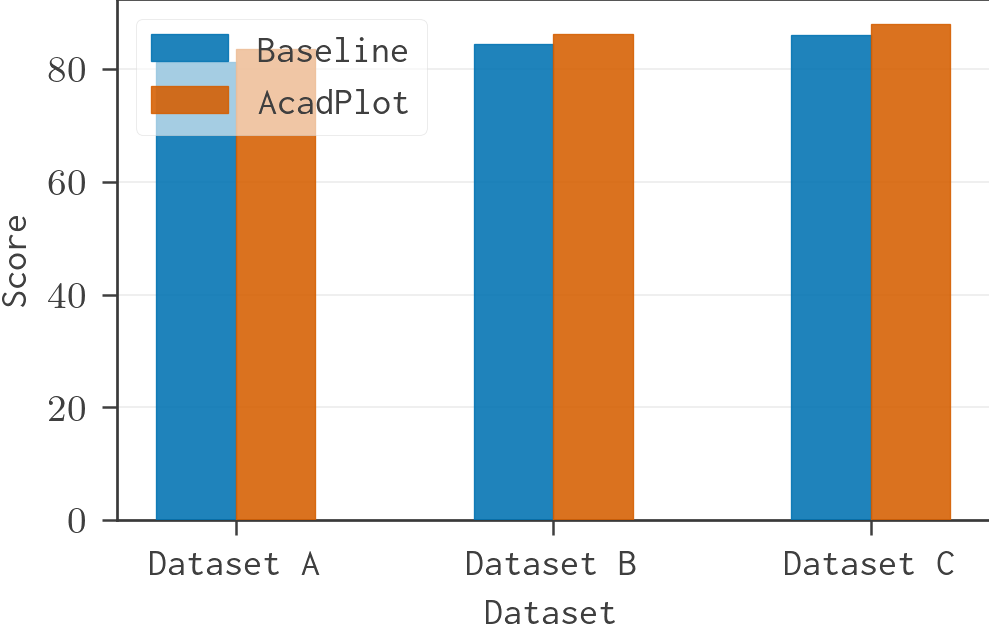
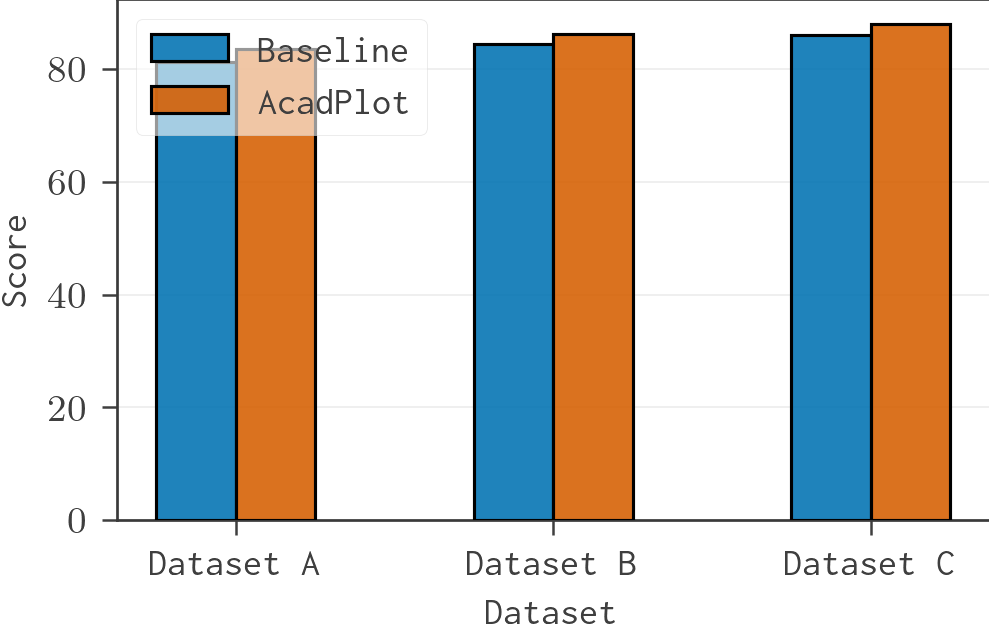
feat(bar): update bar to have outline as default

Changed region(s): [[0.1517, 0.0302, 0.3337, 0.2114], [0.7887, 0.0302, 0.9707, 0.0604], [0.4853, 0.0302, 0.637, 0.0906]]

diff --git a/src/acadplot/styles.py b/src/acadplot/styles.py
@@ -105,7 +105,7 @@ LAYOUTS = {
         grid_alpha=0.28,
         minor_grid_alpha=0.14,
         bar_alpha=0.86,
-        bar_edge_width=0.25,
+        bar_edge_width=0.65,
         legend_frameon=True,
         legend_framealpha=0.6,
         legend_frame_linewidth=0.2,
@@ -126,7 +126,7 @@ LAYOUTS = {
         grid_alpha=0.24,
         minor_grid_alpha=0.11,
         bar_alpha=0.88,
-        bar_edge_width=0.32,
+        bar_edge_width=0.75,
         legend_frameon=True,
         legend_framealpha=0.6,
         legend_frame_linewidth=0.2,
@@ -147,7 +147,7 @@ LAYOUTS = {
         grid_alpha=0.2,
         minor_grid_alpha=0.1,
         bar_alpha=0.86,
-        bar_edge_width=0.2,
+        bar_edge_width=0.5,
         legend_frameon=True,
         legend_framealpha=0.6,
         legend_frame_linewidth=0.16,
@@ -172,7 +172,7 @@ LAYOUTS = {
         grid_alpha=0.26,
         minor_grid_alpha=0.12,
         bar_alpha=0.88,
-        bar_edge_width=0.3,
+        bar_edge_width=0.7,
         legend_frameon=True,
         legend_framealpha=0.6,
         legend_frame_linewidth=0.2,
@@ -193,7 +193,7 @@ LAYOUTS = {
         grid_alpha=0.24,
         minor_grid_alpha=0.12,
         bar_alpha=0.9,
-        bar_edge_width=0.45,
+        bar_edge_width=0.9,
         legend_frameon=True,
         legend_framealpha=0.65,
         legend_frame_linewidth=0.25,
@@ -455,19 +455,27 @@ def _build_style(
     ) * scale
     if resolved_font_size <= 0:
         raise ValueError("font_size must be a positive number.")
-    default_label_size = _scaled_size(layout_profile.label_size, resolved_font_size, scale)
-    default_tick_size = _scaled_size(layout_profile.tick_size, resolved_font_size, scale)
+    default_label_size = _scaled_size(
+        layout_profile.label_size, resolved_font_size, scale
+    )
+    default_tick_size = _scaled_size(
+        layout_profile.tick_size, resolved_font_size, scale
+    )
     default_legend_size = _scaled_size(
         layout_profile.legend_size, resolved_font_size, scale
     )
-    default_title_size = _scaled_size(layout_profile.title_size, resolved_font_size, scale)
+    default_title_size = _scaled_size(
+        layout_profile.title_size, resolved_font_size, scale
+    )
     resolved_label_size = _resolve_size("label_size", label_size, default_label_size)
     resolved_tick_size = _resolve_size("tick_size", tick_size, default_tick_size)
     resolved_legend_size = _resolve_size(
         "legend_size", legend_size, default_legend_size
     )
     resolved_title_size = _resolve_size("title_size", title_size, default_title_size)
-    resolved_text_color = _resolve_color("text_color", text_color, theme_profile.text_color)
+    resolved_text_color = _resolve_color(
+        "text_color", text_color, theme_profile.text_color
+    )
     if text_color is None:
         resolved_axis_label_color = theme_profile.axis_label_color
         resolved_tick_color = theme_profile.tick_color
@@ -511,6 +519,7 @@ def _build_style(
         "minor_grid_alpha": layout_profile.minor_grid_alpha,
         "bar_alpha": layout_profile.bar_alpha,
         "bar_edge_width": layout_profile.bar_edge_width * scale,
+        "bar_edge_color": "#000000",
         "legend_frameon": layout_profile.legend_frameon,
         "legend_framealpha": layout_profile.legend_framealpha,
         "legend_frame_linewidth": layout_profile.legend_frame_linewidth * scale,

diff --git a/tests/test_styles.py b/tests/test_styles.py
@@ -5,6 +5,7 @@ import matplotlib
 
 matplotlib.use("Agg")
 import matplotlib.pyplot as plt
+from matplotlib.colors import to_rgba
 
 from acadplot import (
     available_fonts,
@@ -296,6 +297,13 @@ def test_explicit_bar_overrides_and_default_grid():
     assert ax.xaxis.label.get_size() == 9.0
     assert ax.xaxis.label.get_color() == get_current_style()["axis_label_color"]
     assert ax.spines["bottom"].get_edgecolor()
+    expected_edge_rgb = to_rgba(get_current_style()["bar_edge_color"])[:3]
+    assert all(patch.get_edgecolor()[:3] == expected_edge_rgb for patch in ax.patches)
+    assert all(patch.get_edgecolor()[3] == 1.0 for patch in ax.patches)
+    assert all(
+        patch.get_facecolor()[3] == get_current_style()["bar_alpha"]
+        for patch in ax.patches
+    )
     legend = ax.get_legend()
     assert legend is not None
     assert legend.get_frame_on()
@@ -325,7 +333,10 @@ def test_bar_patterns_apply_to_bar_variants():
         patterns=["diagonal", "cross"],
         fname=None,
     )
-    assert [patch.get_hatch() for patch in ax.patches] == ["/", "x"]
+    assert [patch.get_hatch() for patch in ax.patches] == ["///", "xxx"]
+    expected_edge_rgb = to_rgba(get_current_style()["bar_edge_color"])[:3]
+    assert all(patch.get_edgecolor()[:3] == expected_edge_rgb for patch in ax.patches)
+    assert all(patch.get_edgecolor()[3] == 1.0 for patch in ax.patches)
     plt.close(fig)
 
     fig, ax = plot_grouped_bar(
@@ -336,7 +347,14 @@ def test_bar_patterns_apply_to_bar_variants():
         "upper left",
         fname=None,
     )
-    assert [patch.get_hatch() for patch in ax.patches] == ["/", "/", "x", "x"]
+    assert [patch.get_hatch() for patch in ax.patches] == [
+        "///",
+        "///",
+        "xxx",
+        "xxx",
+    ]
+    assert all(patch.get_edgecolor()[:3] == expected_edge_rgb for patch in ax.patches)
+    assert all(patch.get_edgecolor()[3] == 1.0 for patch in ax.patches)
     plt.close(fig)
 
     fig, ax = plot_stacked_bar(
@@ -345,7 +363,14 @@ def test_bar_patterns_apply_to_bar_variants():
         "upper left",
         fname=None,
     )
-    assert [patch.get_hatch() for patch in ax.patches] == ["/", "/", "x", "x"]
+    assert [patch.get_hatch() for patch in ax.patches] == [
+        "///",
+        "///",
+        "xxx",
+        "xxx",
+    ]
+    assert all(patch.get_edgecolor()[:3] == expected_edge_rgb for patch in ax.patches)
+    assert all(patch.get_edgecolor()[3] == 1.0 for patch in ax.patches)
     plt.close(fig)
 
 

diff --git a/src/acadplot/utils.py b/src/acadplot/utils.py
@@ -67,9 +67,7 @@ def _write_save_metadata(
     from .styles import get_current_style
 
     metadata_path = (
-        targets[0].with_suffix(".acadplot.json")
-        if metadata is True
-        else Path(metadata)
+        targets[0].with_suffix(".acadplot.json") if metadata is True else Path(metadata)
     )
     metadata_path.parent.mkdir(parents=True, exist_ok=True)
     payload = {
@@ -78,7 +76,9 @@ def _write_save_metadata(
         "matplotlib_version": matplotlib_version,
         "style": get_current_style(),
     }
-    metadata_path.write_text(json.dumps(payload, indent=2, default=str), encoding="utf-8")
+    metadata_path.write_text(
+        json.dumps(payload, indent=2, default=str), encoding="utf-8"
+    )
     return metadata_path
 
 
@@ -178,7 +178,9 @@ def _legend_location(location: str, legend_outside: bool | str) -> dict[str, obj
         "bottom": {"loc": "upper center", "bbox_to_anchor": (0.5, -0.18)},
     }
     if side not in outside_locations:
-        raise ValueError("legend_outside must be True, False, or one of: right, left, top, bottom.")
+        raise ValueError(
+            "legend_outside must be True, False, or one of: right, left, top, bottom."
+        )
     return outside_locations[side]
 
 
@@ -337,7 +339,9 @@ def theme_preview(
         )
         for col_idx, color in enumerate(palette):
             ax.add_patch(
-                Rectangle((col_idx, row_idx), 0.9, 0.72, facecolor=color, edgecolor="none")
+                Rectangle(
+                    (col_idx, row_idx), 0.9, 0.72, facecolor=color, edgecolor="none"
+                )
             )
 
     ax.set_xlim(-1.2, max(len(THEMES[name].palette) for name in selected_themes))
@@ -395,16 +399,16 @@ markers = {
 
 patterns = {
     "none": "",
-    "diagonal": "/",
-    "back_diagonal": "\\",
-    "cross": "x",
-    "plus": "+",
-    "dots": ".",
-    "circles": "o",
-    "stars": "*",
-    "horizontal": "-",
-    "vertical": "|",
-    "grid": "++",
+    "diagonal": "///",
+    "back_diagonal": "\\\\\\",
+    "cross": "xxx",
+    "plus": "+++",
+    "dots": "...",
+    "circles": "ooo",
+    "stars": "***",
+    "horizontal": "---",
+    "vertical": "|||",
+    "grid": "++++",
 }
 
 

diff --git a/src/acadplot/bar.py b/src/acadplot/bar.py
@@ -1,6 +1,7 @@
 from typing import List, Optional, Sequence, Tuple
 
 import matplotlib.pyplot as plt
+from matplotlib.colors import to_rgba
 
 from .draw import draw_bar, resolve_color_key, resolve_pattern_key
 from .styles import (
@@ -9,7 +10,7 @@ from .styles import (
     configure_plot_style,
     get_current_style,
 )
-from .utils import save, styled_legend
+from .utils import new_alpha, save, styled_legend
 
 
 def _prepare_axes(ax, fig_size):
@@ -344,29 +345,29 @@ def plot_stacked_bar(
         values, color_key, pattern_key, stack_label = _parse_stack(stack)
         color = resolve_color_key(color_key)
         pattern = _resolve_pattern(patterns, stack_idx, stack_label, pattern_key)
-        if color is None:
-            color_kwargs = {}
-        elif pattern:
-            color_kwargs = {"color": color, "edgecolor": str(style["axis_color"])}
-        else:
-            color_kwargs = {"color": color, "edgecolor": color}
+        bar_alpha = float(style["bar_alpha"])
+        bar_edge_color = str(style["bar_edge_color"])
+        color_kwargs = {"edgecolor": bar_edge_color}
+        if color is not None:
+            color_kwargs["facecolor"] = new_alpha(to_rgba(color), bar_alpha)
         container = ax.bar(
             x_positions,
             values,
             bar_width,
             bottom=bottoms,
             linewidth=float(style["bar_edge_width"]),
-            alpha=float(style["bar_alpha"]),
             hatch=pattern,
             label=stack_label,
             zorder=3,
             **color_kwargs,
         )
-        if color is None:
-            for patch in container.patches:
-                patch.set_edgecolor(
-                    str(style["axis_color"]) if pattern else patch.get_facecolor()
+        for patch in container.patches:
+            if color is None:
+                patch.set_facecolor(
+                    new_alpha(to_rgba(patch.get_facecolor()), bar_alpha)
                 )
+            patch.set_edgecolor(bar_edge_color)
+            patch.set_alpha(None)
         bottoms = [bottom + value for bottom, value in zip(bottoms, values)]
 
     ax.set_xticks(list(x_positions))

diff --git a/src/acadplot/draw.py b/src/acadplot/draw.py
@@ -103,24 +103,24 @@ def draw_bar(
     color = resolve_color_key(color_key)
     pattern = resolve_pattern_key(pattern_key)
     style = get_current_style()
-    if color is None:
-        color_kwargs = {}
-    elif pattern:
-        color_kwargs = {"color": color, "edgecolor": str(style["axis_color"])}
-    else:
-        color_kwargs = {"color": color, "edgecolor": color}
+    bar_alpha = float(style["bar_alpha"])
+    bar_edge_color = str(style["bar_edge_color"])
+    color_kwargs = {"edgecolor": str(style["bar_edge_color"])}
+    if color is not None:
+        color_kwargs["facecolor"] = new_alpha(to_rgba(color), bar_alpha)
 
     container = ax.bar(
         x,
         y,
         width,
         linewidth=float(style["bar_edge_width"]),
-        alpha=float(style["bar_alpha"]),
         hatch=pattern,
         label=label,
         zorder=3,
         **color_kwargs,
     )
-    if color is None:
-        for patch in container.patches:
-            patch.set_edgecolor(str(style["axis_color"]) if pattern else patch.get_facecolor())
+    for patch in container.patches:
+        if color is None:
+            patch.set_facecolor(new_alpha(to_rgba(patch.get_facecolor()), bar_alpha))
+        patch.set_edgecolor(bar_edge_color)
+        patch.set_alpha(None)

diff --git a/README.md b/README.md
@@ -562,7 +562,8 @@ plot_grouped_bar(
 
 Use named pattern presets, integer pattern indices, or raw Matplotlib hatch
 strings. Patterns work for `plot_bar`, `plot_grouped_bar`, and
-`plot_stacked_bar`.
+`plot_stacked_bar`. Bar plots use a solid black border by default, which keeps
+adjacent bars and hatch patterns legible in print and grayscale output.
 
 ```python
 from acadplot import plot_grouped_bar, configure_plot_style, available_patterns
